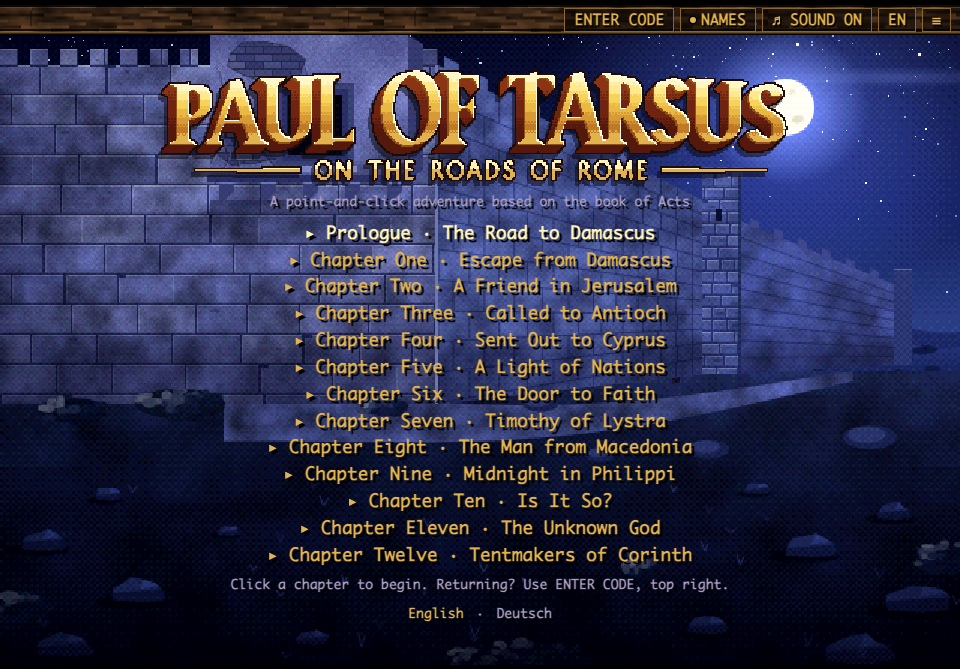
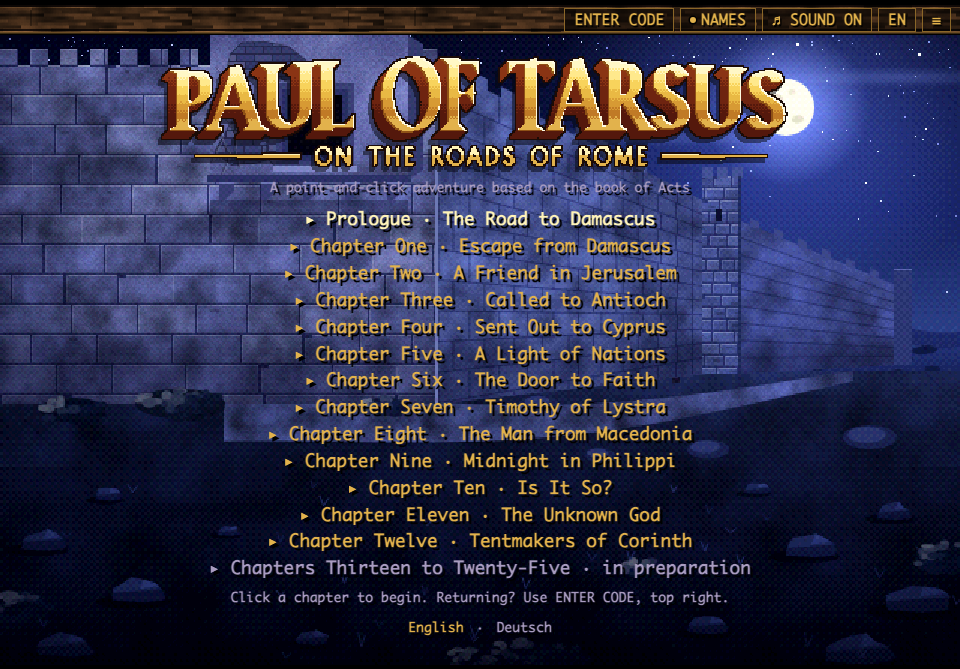
Title: the planned chapters, by their part of Acts, under one line
The title screen ends its chapter list with one line, "Chapters Thirteen to
Twenty-Five · in preparation". A click opens the thirteen planned chapters
of issue #47 in place, dimmed, each named by the part of Acts it will tell
rather than by a working title; they cannot be started, and a second click
closes them. PLANNED is read by the title alone: no level file, no salt, no
codes. German in lang/de/main.js; stop `plans`; docs and screenshots.

Changed region(s): [[0.1562, 0.0598, 0.8438, 0.9567]]

diff --git a/index.html b/index.html
@@ -90,6 +90,11 @@ body{display:flex;align-items:center;justify-content:center}
 #overlay h1,#overlay h2,#overlay p{flex-shrink:0}
 #overlay .pick{color:var(--gold)}
 #overlay .pick:hover{color:#fff}
+/* the planned chapters (PLANNED): a muted line that opens them, and the chapters themselves, dimmed, which cannot be clicked */
+#overlay .plans{color:#a99cc0;cursor:pointer}
+#overlay .plans:hover{color:#fff}
+#overlay .plan{display:none;color:#8a7ea0;cursor:default}
+#overlay .chs.open .plan{display:block}
 #overlay .langs span{cursor:pointer;padding:0 calc(var(--s)*1.5px)}
 #overlay .langs span:hover{color:#fff}
 #overlay .langs span.on{color:var(--gold)}
@@ -109,7 +114,8 @@ body{display:flex;align-items:center;justify-content:center}
    the upper part of the picture has not moved. A menu or the code box opened over the title covers all of it. */
 #wrap.title #view{height:calc(var(--s)*210px)}
 #wrap.title #status,#wrap.title #panel{display:none}
-/* with that height the title holds its prologue and twelve chapters without scrolling; the list still scrolls when there are more lines than room */
+/* with that height the title holds its prologue, twelve chapters and the line of the planned ones without scrolling; the list still scrolls
+   when there are more lines than room, as it does when the planned chapters are opened */
 #overlay.title{padding-top:calc(var(--s)*5px);padding-bottom:calc(var(--s)*5px)}
 #overlay.title .chs p{margin:calc(var(--s)*1.4px) auto;font-size:calc(var(--s)*5.9px);line-height:1.28}
 /* splash: the opening picture (shared/splash.js). The title is laid out as it always is, so that its name does not move when the chapters
@@ -1540,6 +1546,17 @@ const CHAP={
   12:{name:'TENTMAKERS OF CORINTH',label:'Chapter Twelve',title:'Tentmakers of Corinth',salt:0xC59F,src:'levels/chapter12.js'}};
 const TITLE={level:1,scene:'title',mood:'ancient',amb:{crickets:.5,wind:.35,owl:.4}};
 const PRO={name:'THE ROAD TO DAMASCUS',label:'Prologue',title:'The Road to Damascus',src:'levels/prologue.js'};
+/* PLANNED: the chapters that are planned and not built (issue #47). The title lists them, dimmed, under one line that opens them in place.
+   Each is named by the part of Acts it will tell, not by a working title, which may still change; the title it is given replaces that
+   reference when the chapter is built and moves into CHAP. Nothing else reads this list: these chapters have no file, no salt and no codes. */
+const PLANNED=[
+  {label:'Chapter Thirteen',short:'Thirteen',ref:'Acts 18:23–19:20'},{label:'Chapter Fourteen',short:'Fourteen',ref:'Acts 19:21–20:1'},
+  {label:'Chapter Fifteen',short:'Fifteen',ref:'Acts 20:1-12'},{label:'Chapter Sixteen',short:'Sixteen',ref:'Acts 20:13-38'},
+  {label:'Chapter Seventeen',short:'Seventeen',ref:'Acts 21:1-16'},{label:'Chapter Eighteen',short:'Eighteen',ref:'Acts 21:17–22:29'},
+  {label:'Chapter Nineteen',short:'Nineteen',ref:'Acts 22:30–23:35'},{label:'Chapter Twenty',short:'Twenty',ref:'Acts 24:1-27'},
+  {label:'Chapter Twenty-One',short:'Twenty-One',ref:'Acts 25:1–26:32'},{label:'Chapter Twenty-Two',short:'Twenty-Two',ref:'Acts 27:1-26'},
+  {label:'Chapter Twenty-Three',short:'Twenty-Three',ref:'Acts 27:27–28:10'},{label:'Chapter Twenty-Four',short:'Twenty-Four',ref:'Acts 28:11-16'},
+  {label:'Chapter Twenty-Five',short:'Twenty-Five',ref:'Acts 28:16-31'}];
 /* A level file calls LEVEL(n, init). init() registers its art, cast, items and rooms, and returns the chapter definition. */
 function LEVEL(n,init){LOOK.paul=paulLook(n);Object.assign(CHAP[n],init(),{ready:1});LOOK.paul=paulLook(G.ch)}
 function PROLOGUE(init){LOOK.paul=paulLook(1);Object.assign(PRO,init(),{ready:1});LOOK.paul=paulLook(G.ch)}
@@ -1640,7 +1657,10 @@ async function title(){lock(true);if(SHARED.scroll)SHARED.scroll.off();await set
     (sv?'<p class="go" data-cont="1">&#9656; '+T('Continue')+' &middot; '+T(CHAP[sv.ch].label)+' &middot; '+T(CHAP[sv.ch].title)+'</p>':'')+
     /* the farthest point, when it is not where Continue goes: someone who went back to try an earlier chapter finds the way forward again */
     (far?`<p class="${sv?'pick':'go'}" data-far="1">&#9656; ${T('Farthest point')} &middot; ${T(CHAP[far].label)} &middot; ${T(CHAP[far].title)}</p>`:'')+
-    '<div class="chs">'+`<p class="${sv||far?'pick':'go'}" data-pro="1">&#9656; ${T('Prologue')} &middot; ${T(PRO.title)}</p>`+Object.keys(CHAP).map(n=>`<p class="pick" data-ch="${n}">&#9656; ${T(CHAP[n].label)} &middot; ${T(CHAP[n].title)}</p>`).join('')+'</div>'+
+    '<div class="chs">'+`<p class="${sv||far?'pick':'go'}" data-pro="1">&#9656; ${T('Prologue')} &middot; ${T(PRO.title)}</p>`+Object.keys(CHAP).map(n=>`<p class="pick" data-ch="${n}">&#9656; ${T(CHAP[n].label)} &middot; ${T(CHAP[n].title)}</p>`).join('')+
+    /* the planned chapters: one line, and under it, once it is clicked, each of them by its reference. None of them can be started. */
+    (PLANNED.length?'<p class="plans" data-plans="1"><span>&#9656;</span> '+T('Chapters {from} to {to}',{from:T(PLANNED[0].short),to:T(PLANNED.at(-1).short)})+' &middot; '+T('in preparation')+'</p>'+
+      PLANNED.map(c=>`<p class="plan">${T(c.label)} &middot; ${T(c.ref)}</p>`).join(''):'')+'</div>'+
     '<p class="small">'+T('Click a chapter to begin. Returning? Use ENTER CODE, top right.')+'</p>'+
     (Object.keys(LANGS).length>1?'<p class="small langs">'+Object.keys(LANGS).map(l=>`<span data-lang="${l}"${l===G.lang?' class="on"':''}>${LANGS[l].native}</span>`).join(' &middot; ')+'</p>':'')+
     (G.splash?'<p class="begin"><span class="go">'+T('Click to begin')+'</span></p>':'');
@@ -1648,7 +1668,10 @@ async function title(){lock(true);if(SHARED.scroll)SHARED.scroll.off();await set
       art.style.width='calc(var(--s)*'+art.width/HR+'px)';art.style.height='calc(var(--s)*'+art.height/HR+'px)';ov.querySelector('h1').appendChild(art)}
     const l=ov.querySelector('.chs');l.onscroll=()=>chsFade(l);requestAnimationFrame(()=>chsFade(l))});
   const pick=e=>{const d=e.target.dataset||{};if(d.lang){SFX.click();return setLang(d.lang,1)}if(e.target.classList.contains('chs'))return;
-    if(e.target.closest('.langs'))return;if(d.cont)return resume();if(d.far)return resumeFar();if(d.pro)return startPrologue();startChapter(+d.ch||1)};
+    if(e.target.closest('.langs'))return;
+    const pl=e.target.closest('.plans,.plan');if(pl){if(pl.classList.contains('plans')){SFX.click();const l=ov.querySelector('.chs'),open=l.classList.toggle('open');
+      pl.firstChild.textContent=open?'\u25BE':'\u25B8';if(open)l.querySelector('.plan:last-child').scrollIntoView({block:'nearest',behavior:'smooth'});chsFade(l)}return}
+    if(d.cont)return resume();if(d.far)return resumeFar();if(d.pro)return startPrologue();startChapter(+d.ch||1)};
   /* leave: the splash is over. The picture passes into the title's own (at once in a playthrough at speed), and the chapters come in */
   const leave=()=>{if(!G.splash||!ov.classList.contains('splash'))return;G.splash=0;clearTimeout(tm);splashGo=null;sp.leave(own,G.speedAll>200?1:1800);
       AU.amb=TITLE.amb;ov.classList.remove('splash','playing');ov.onclick=pick},

diff --git a/tools/playtest-harness.html b/tools/playtest-harness.html
@@ -459,7 +459,7 @@
      Continue and the farthest point, and then the box scrolls: its far edge fades while more lies beyond it, and a click between entries
      starts nothing. The stop `titlescroll` shows that title, scrolled to its end. */
   {const fade=()=>new Promise(r=>requestAnimationFrame(()=>requestAnimationFrame(r))),l0=ov.querySelector('.chs');
-    ok(l0&&[...l0.children].every(p=>p.dataset.ch||p.dataset.pro)&&l0.children.length===Object.keys(CHAP).length+1,'the prologue and the chapters sit in a list of their own');
+    ok(l0&&[...l0.children].every(p=>p.dataset.ch||p.dataset.pro||p.classList.contains('plans')||p.classList.contains('plan'))&&l0.querySelectorAll('[data-ch],[data-pro]').length===Object.keys(CHAP).length+1,'the prologue and the chapters sit in a list of their own, with the planned ones at its foot');
     if(!/[?&]keep=1/.test(location.search)){
     await fade();ok(!l0.classList.contains('up')&&!l0.classList.contains('down'),'on a first visit neither edge of the list fades: there is nothing beyond it');
     store('paul.save',codeOf(2,0));keepSaves({far:{code:codeOf(3,0),t:1}});ov.draw();await fade();
@@ -470,7 +470,18 @@
       l.click();await wait(60);ok(ov.classList.contains('on')&&!G.room,'a click on the list between entries starts no chapter');
       halt('titlescroll',()=>{ov.querySelectorAll('.go').forEach(g=>g.style.animation='none')})}
     store('paul.save',null);store('paul.saves',null);ov.draw();await fade();
-    ok(!ov.querySelector('[data-cont]')&&!ov.querySelector('[data-far]')&&store('paul.save')===null,'and the title of a first visit is as it was')}}
+    ok(!ov.querySelector('[data-cont]')&&!ov.querySelector('[data-far]')&&store('paul.save')===null,'and the title of a first visit is as it was')}
+    /* The planned chapters (PLANNED, issue #47) wait under one line at the foot of the list, closed. A click opens them in place, each named
+     by its part of Acts; a click on one of them starts nothing, and a second click on the line closes them. The stop `plans` shows them open. */
+  {const l=ov.querySelector('.chs'),pl=l.querySelector('.plans'),items=[...l.querySelectorAll('.plan')],seen=el=>el.getClientRects().length>0;
+    ok(pl&&items.length===PLANNED.length&&!items.some(seen)&&!l.querySelector('.plan[data-ch],.plans[data-ch]')&&pl.textContent.includes(T('in preparation')),'the planned chapters wait under one line: '+(pl&&pl.textContent.trim()));
+    pl.click();await wait(500);
+    ok(l.classList.contains('open')&&items.every(seen)&&items.every((p,i)=>p.textContent===T(PLANNED[i].label)+' \u00b7 '+T(PLANNED[i].ref))&&inOv(),'a click opens them, each by its reference: '+items[0].textContent+' ... '+items.at(-1).textContent);
+    items[0].click();await wait(400);
+    ok(ov.classList.contains('title')&&G.ch===1&&!G.room&&l.classList.contains('open'),'a planned chapter cannot be started');
+    halt('plans',()=>{const g=ov.querySelector('.go');if(g)g.style.animation='none'});
+    pl.click();await wait(200);l.scrollTop=0;chsFade(l);ok(!l.classList.contains('open')&&!items.some(seen),'a second click closes them')}
+  }
   /* the voices, rendered offline on the game's own mixer (audioGraph): every instrument and drum stroke sounds, stays finite and does not clip */
   {const SR=22050,offline=async(fn,dur)=>{const off=new OfflineAudioContext(1,Math.ceil(SR*dur),SR),keep=Object.assign({},AU);AU.ctx=off;audioGraph(off);
       try{fn(off)}finally{for(const k in AU)AU[k]=keep[k]}return(await off.startRendering()).getChannelData(0)},

diff --git a/lang/de/main.js b/lang/de/main.js
@@ -59,6 +59,47 @@ TEXTS('de','main',{
   "ESCAPE FROM DAMASCUS":"FLUCHT AUS DAMASKUS",
   "THE ROAD TO DAMASCUS":"AUF DEM WEG NACH DAMASKUS",
   "Prologue":"Prolog",
+  "Chapters {from} to {to}":"Kapitel {from} bis {to}",
+  "in preparation":"in Vorbereitung",
+  "Chapter Thirteen":"Dreizehntes Kapitel",
+  "Thirteen":"Dreizehn",
+  "Acts 18:23–19:20":"Apostelgeschichte 18:23–19:20",
+  "Chapter Fourteen":"Vierzehntes Kapitel",
+  "Fourteen":"Vierzehn",
+  "Acts 19:21–20:1":"Apostelgeschichte 19:21–20:1",
+  "Chapter Fifteen":"Fünfzehntes Kapitel",
+  "Fifteen":"Fünfzehn",
+  "Acts 20:1-12":"Apostelgeschichte 20:1-12",
+  "Chapter Sixteen":"Sechzehntes Kapitel",
+  "Sixteen":"Sechzehn",
+  "Acts 20:13-38":"Apostelgeschichte 20:13-38",
+  "Chapter Seventeen":"Siebzehntes Kapitel",
+  "Seventeen":"Siebzehn",
+  "Acts 21:1-16":"Apostelgeschichte 21:1-16",
+  "Chapter Eighteen":"Achtzehntes Kapitel",
+  "Eighteen":"Achtzehn",
+  "Acts 21:17–22:29":"Apostelgeschichte 21:17–22:29",
+  "Chapter Nineteen":"Neunzehntes Kapitel",
+  "Nineteen":"Neunzehn",
+  "Acts 22:30–23:35":"Apostelgeschichte 22:30–23:35",
+  "Chapter Twenty":"Zwanzigstes Kapitel",
+  "Twenty":"Zwanzig",
+  "Acts 24:1-27":"Apostelgeschichte 24:1-27",
+  "Chapter Twenty-One":"Einundzwanzigstes Kapitel",
+  "Twenty-One":"Einundzwanzig",
+  "Acts 25:1–26:32":"Apostelgeschichte 25:1–26:32",
+  "Chapter Twenty-Two":"Zweiundzwanzigstes Kapitel",
+  "Twenty-Two":"Zweiundzwanzig",
+  "Acts 27:1-26":"Apostelgeschichte 27:1-26",
+  "Chapter Twenty-Three":"Dreiundzwanzigstes Kapitel",
+  "Twenty-Three":"Dreiundzwanzig",
+  "Acts 27:27–28:10":"Apostelgeschichte 27:27–28:10",
+  "Chapter Twenty-Four":"Vierundzwanzigstes Kapitel",
+  "Twenty-Four":"Vierundzwanzig",
+  "Acts 28:11-16":"Apostelgeschichte 28:11-16",
+  "Chapter Twenty-Five":"Fünfundzwanzigstes Kapitel",
+  "Twenty-Five":"Fünfundzwanzig",
+  "Acts 28:16-31":"Apostelgeschichte 28:16-31",
   "The Road to Damascus":"Auf dem Weg nach Damaskus",
   "SKIP":"ÜBERSPRINGEN",
   "Chapter One":"Erstes Kapitel",

diff --git a/docs/development.md b/docs/development.md
@@ -80,6 +80,8 @@ A line with no entry is shown in English. `node tools/strings.mjs --check` (whic
 
 **The narrator's scroll.** `narr` (that is, `say` with no speaker) looks whether the picture is dark: the view is faded out (`fade(1)`), or the scene is the engine's `DARK`, which a chapter sets as `G.scene` for what is told and not shown. If it is, `shared/scroll.js` is loaded, the scroll comes up on a canvas of its own above the darkened view with a soft rustle (`SFX.unroll`, once for a passage and not for every line), and the line is set on it in ink (`fit`: the largest of four sizes of writing that fits, with every reference kept whole). The room that a script enters behind the dark is not disturbed. `fade`, a spoken line and `endScreen` wait until the scroll has gone down, and a scroll left with no line on it goes down after a moment. So a chapter writes nothing for it: it fades out and tells, as before, and a passage takes about a second longer than it did. A line that should stand plain in the dark all the same is told with `{plain:1}`. When the screen is faded to white instead (`fade(1, ms, 1)` on the road to Damascus in `levels/prologue.js`), `inDark()` is false, the scroll stays down, and `say` gives the line `.line.white`, setting the words in dark ink straight on the warm white screen. The picture is put together once from layers (`build`): the room and the roll are finished like a backdrop, and the hands and sleeves are painted in greys and set in a scale of tones (`tones`). A line that is too long for the roll even in the smallest writing is noted in `SHARED.scroll.over`, and a playthrough fails on it in any language. The stops `scroll` and `scrolllong` check how the scroll comes and goes and show it with a usual line and with the longest one: look at both in German too (`de:scroll`).
 
+**The planned chapters.** `PLANNED` in `index.html` lists the chapters that are planned and not built (issue #47), each with its label, its number as a word (`short`, for the line that opens the list) and the part of Acts it will tell. The title screen shows them under one line at the foot of the chapter list, **Chapters Thirteen to Twenty-Five · in preparation**, dimmed and closed; a click on that line toggles the class `open` on `.chs` and shows them. A planned chapter is named by its reference, not by a working title, because the episode is agreed only in its issue before it is built (CONTRIBUTING section 2), and it cannot be clicked. Nothing else reads `PLANNED`: those chapters have no level file, no salt and no codes. When one is built, its entry leaves `PLANNED` and it enters `CHAP` with its title; the line then counts from the next. The stop `plans` shows the list open.
+
 **The prologue.** `levels/prologue.js` (with `lang/de/prologue.js`) is loaded on demand with `loadPrologue()` when the player chooses **Prologue · The Road to Damascus** at the head of the title screen's list (`PRO`). It shares Chapter One's score (`levels/chapter1.js`), which includes the ten-bar overture in `ancient` (`overture:{mood:'ancient',bars:10,to:'calm'}`: the sequencer switches to `'calm'` at Bar 11 on the title screen, and in the prologue's last picture `AU.step = 96` starts at the four-bar climax and cross-fades into `'calm'` as Chapter One begins), the `'stones'` mood outside Jerusalem, `'harp'` in the house of Judas, and `silenceNow()` when the light from heaven cuts off every sound at once. While the prologue runs, `#skip` is shown in the top bar; clicking it sets `G.proSkip` and starts Chapter One directly (`CHAP[1].start(false)`), whereas letting the prologue run through flows into `CHAP[1].start(true)`, which omits the two opening background lines already told in the prologue. Its playtest stops are `procard`, `pro1`, `pro2`, `pro3`, `pro4`, `pro5`, `pro7`, `pro8`, `pro8b` and `pro9`.
 
 **The installed app.** `sw.js` and `shared/pwa.js` make the game installable and playable offline. The page loads `shared/pwa.js` only when it is served over http(s), never from disk, so the playtest's pages and a copy opened from a folder are unchanged. It paints the icon from the P of the title logo and builds the manifest as a blob: there is no icon file and no manifest file. The service worker takes the network first, so that a player always gets one version's files together, and falls back to what it has kept; the page asks it to keep every chapter, shared file and language file ahead of time. A new file in `shared/` is added to `FILES` in `shared/pwa.js` (the playtest fails if it is missing); chapters and languages are found from `CHAP` and `LANGS`. An installed icon is `docs/screenshots/pwa-icon.png`.

diff --git a/docs/how-to-play.md b/docs/how-to-play.md
@@ -24,6 +24,7 @@
 | Show something to someone | **Give** (or **Use**) an item on a person. Everyone has something to say about everything Paul carries, sometimes a clue. Only what someone actually needs changes hands. |
 | Ask about what you have learned | Once Paul learns something (a frayed basket, a torn sail, a famine), it appears as a new question when he talks to people in that chapter |
 | Skip a line of dialogue | Click the scene or press Space |
+| See what is coming | The last line on the title screen, **Chapters Thirteen to Twenty-Five · in preparation**, opens the chapters that are planned and not yet built, each with the part of Acts it will tell. They cannot be played yet; click the line again to close them. |
 | Change the language | Click **English** or **Deutsch** on the title screen, or the **EN**/**DE** button in the top bar at any time |
 | Keyboard | `1`-`6` verbs, `P` pray, `M` mute, `Tab` names, `C` switch character, `Esc` options |
 | Options | Click **≡** in the top right or press `Esc` to set the music and effects volume, the text speed, how much the figures move (**Movement**: lively, or calm, which keeps the mouths and leaves the rest still; a device set to reduce motion starts in calm), **NAMES** and the language, to save and load games (see [Saved games](#saved-games)), or to go back to the title screen. It opens between scenes, not during a cutscene or a conversation. The options are kept in your browser apart from your safe point (`paul.opts`). |
@@ -80,6 +81,8 @@ Chapter Six, Seven, Eight and Nine codes are nine characters too (`6-XXX-XXX-XXX
 ![Safe-point code](screenshots/code.png)
 
 ![Returning: the title screen offers to continue](screenshots/continue.png)
+
+![The chapters in preparation, opened on the title screen](screenshots/plans.png)
 
 ## Saved games
 
